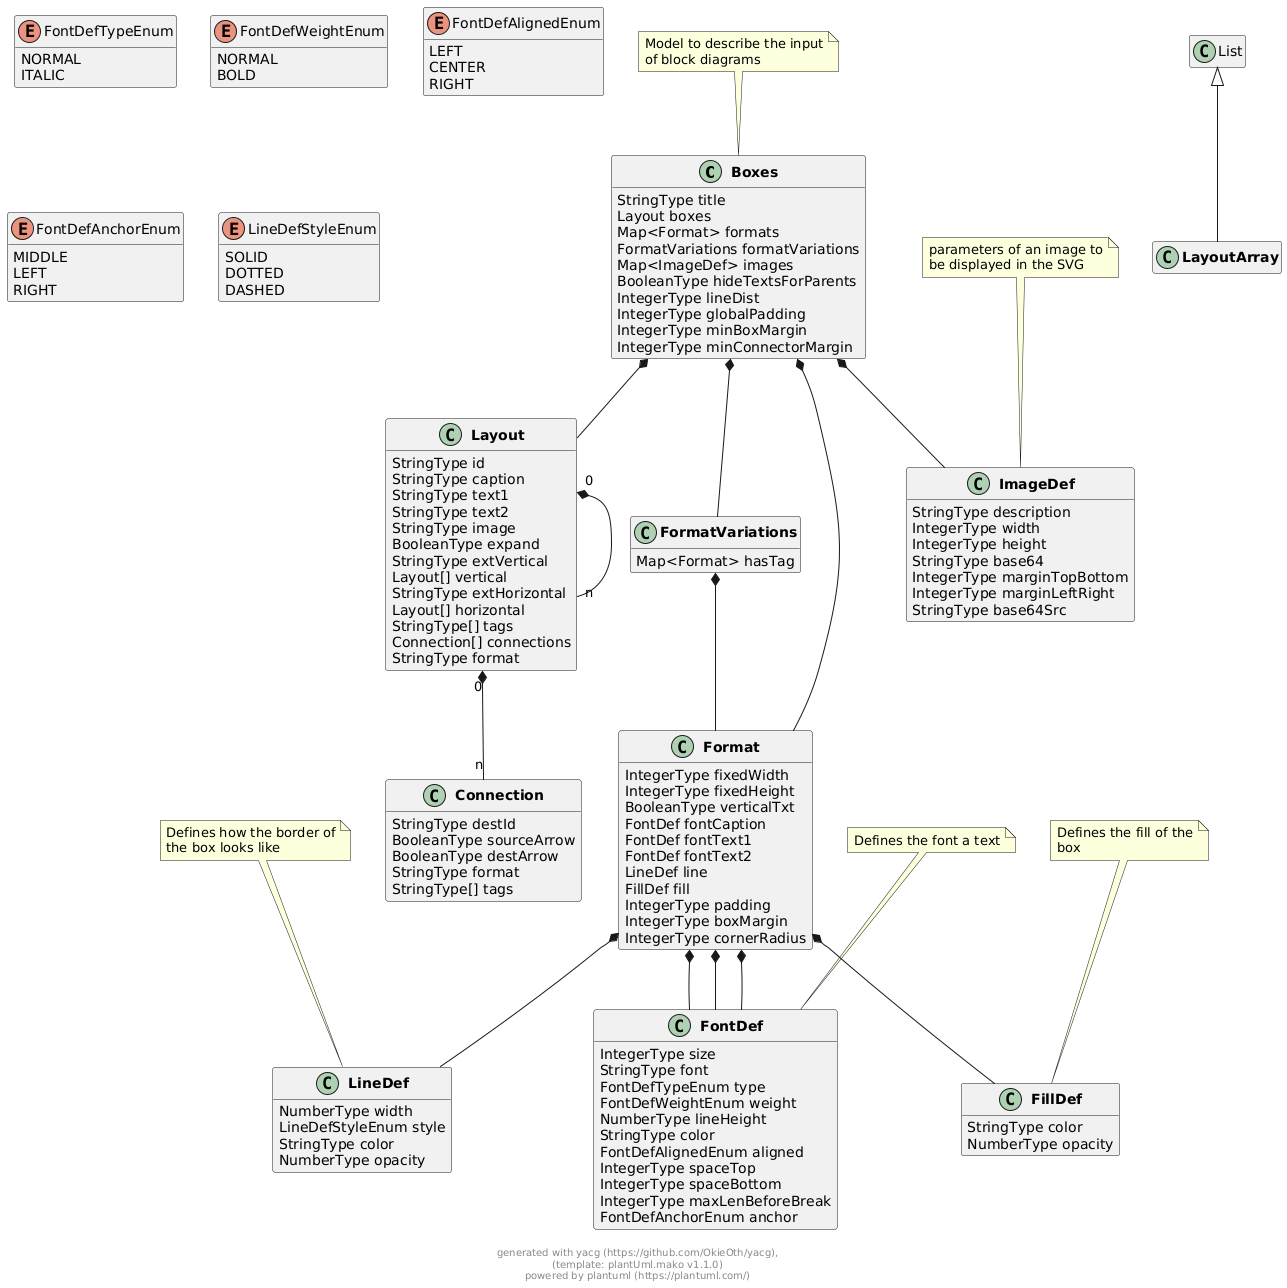
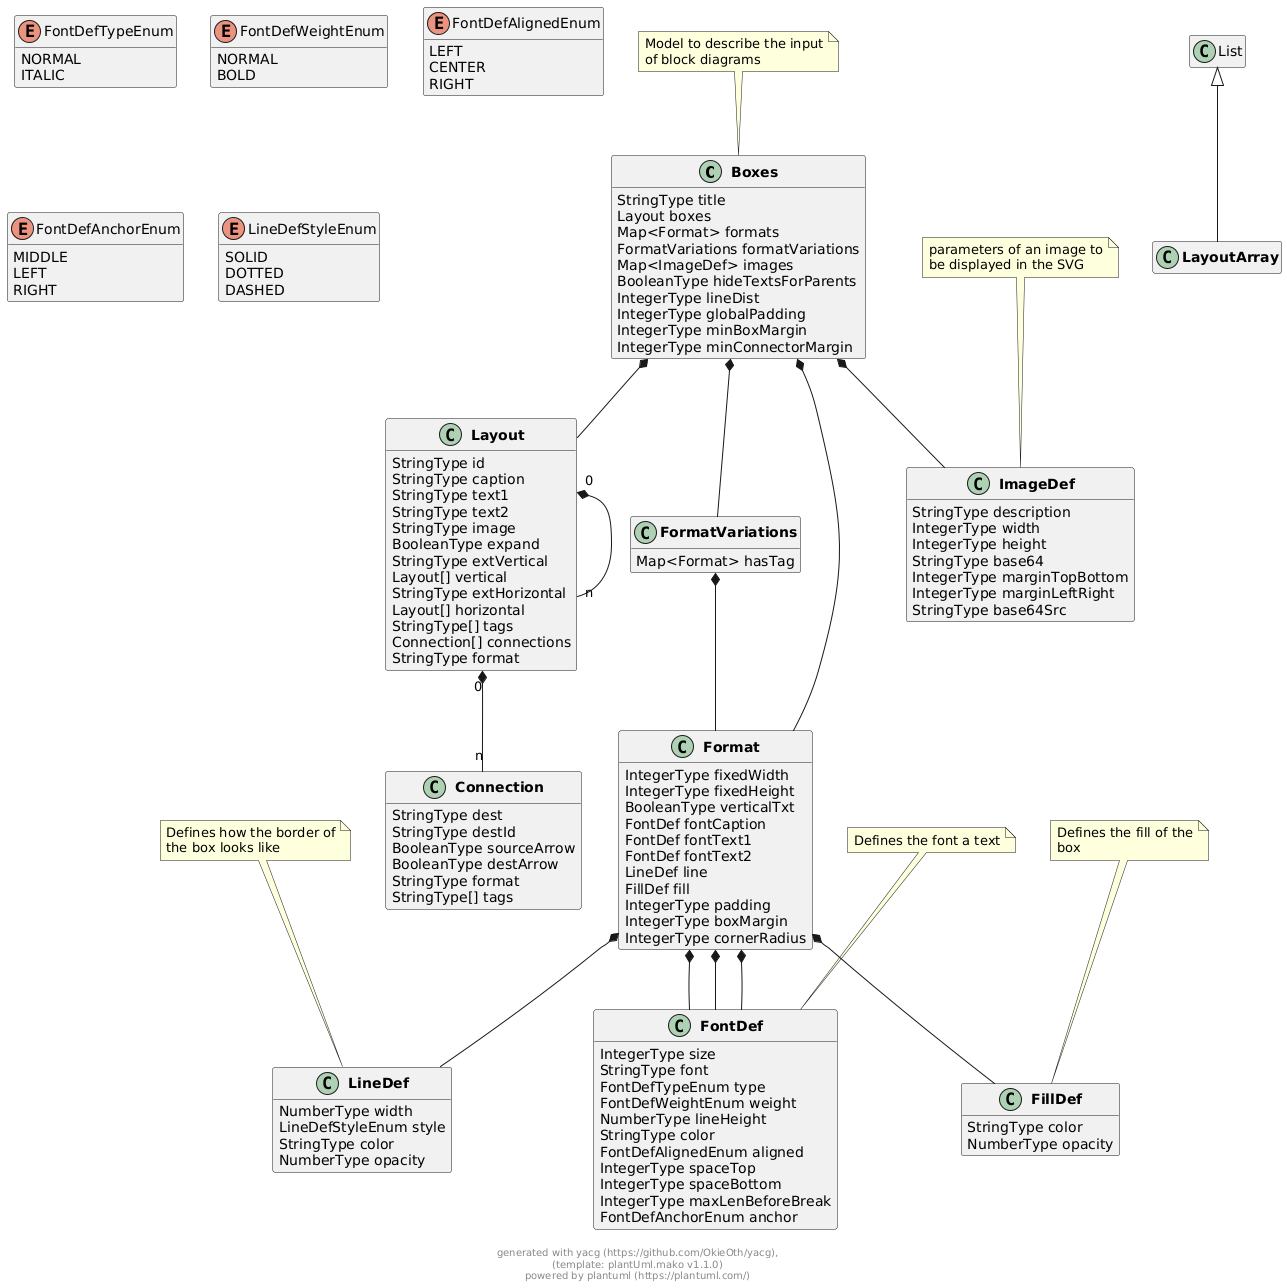
enabled external connections with captions

Changed region(s): [[0.2797, 0.5901, 0.4351, 0.7143]]

diff --git a/pkg/types/boxes/external_helper.go b/pkg/types/boxes/external_helper.go
@@ -7,9 +7,15 @@ import (
 	"github.com/okieoth/draw.chart.things/pkg/types"
 )
 
-func hasConnection(connections []Connection, destId string) bool {
+func hasConnectionById(connections []Connection, destId string) bool {
 	return slices.ContainsFunc(connections, func(c Connection) bool {
 		return c.DestId == destId
+	})
+}
+
+func hasConnectionByCapt(connections []Connection, caption string) bool {
+	return slices.ContainsFunc(connections, func(c Connection) bool {
+		return c.Dest == caption
 	})
 }
 
@@ -23,8 +29,17 @@ func (b *Boxes) mixInConnectionsImpl(l *Layout, additional map[string]Connection
 	if l.Id != "" {
 		if cc, ok := additional[l.Id]; ok {
 			for _, c := range cc.Connections {
-				if !hasConnection(l.Connections, c.DestId) {
+				if !hasConnectionById(l.Connections, c.DestId) {
 					l.Connections = append(l.Connections, c)
+				}
+			}
+		} else if l.Caption != "" {
+			if cc, ok := additional[l.Caption]; ok {
+				for _, c := range cc.Connections {
+					if !hasConnectionByCapt(l.Connections, c.Dest) {
+						c.DestId = b.FindBoxWithCaption(c.Dest)
+						l.Connections = append(l.Connections, c)
+					}
 				}
 			}
 		}
@@ -61,4 +76,32 @@ func (b *Boxes) MixinThings(additional BoxesFileMixings) {
 			maps.Copy(b.FormatVariations.HasTag, additional.FormatVariations.HasTag)
 		}
 	}
+}
+
+func (b *Boxes) findBoxInContWithCaption(cont []Layout, caption string) string {
+	if cont == nil {
+		return ""
+	}
+	for i := range len(cont) {
+		found := b.findBoxWithCaption(&cont[i], caption)
+		if found != "" {
+			return found
+		}
+	}
+	return ""
+}
+
+func (b *Boxes) findBoxWithCaption(box *Layout, caption string) string {
+	if box.Caption == caption {
+		return box.Id
+	}
+	found := b.findBoxInContWithCaption(box.Vertical, caption)
+	if found != "" {
+		return found
+	}
+	return b.findBoxInContWithCaption(box.Horizontal, caption)
+}
+
+func (b *Boxes) FindBoxWithCaption(caption string) string {
+	return b.findBoxWithCaption(&b.Boxes, caption)
 }

diff --git a/pkg/types/boxes/externals_test.go b/pkg/types/boxes/externals_test.go
@@ -71,3 +71,28 @@ func TestLoadExternalConnections(t *testing.T) {
 	require.Equal(t, 2.0, *cl.Line.Width)
 	require.Equal(t, "pink", *cl.Line.Color)
 }
+
+func TestLoadExternalConnections2(t *testing.T) {
+	input := "../../../resources/examples_boxes/ext_complex_horizontal_connected_pics.yaml"
+	inputConnections := "../../../resources/examples_boxes/ext_connections2.yaml"
+
+	b, err := types.LoadInputFromFile[boxes.Boxes](input)
+	require.Nil(t, err)
+	require.NotNil(t, b)
+
+	c, err := types.LoadInputFromFile[boxes.BoxesFileMixings](inputConnections)
+	require.Nil(t, err)
+	require.NotNil(t, c)
+
+	// r4_1
+	require.Len(t, b.Boxes.Horizontal[0].Vertical[0].Connections, 2)
+	// r5_2
+	require.Len(t, b.Boxes.Horizontal[1].Vertical[1].Connections, 0)
+
+	b.MixinThings(*c)
+
+	// r4_1
+	require.Len(t, b.Boxes.Horizontal[0].Vertical[0].Connections, 4)
+	// r5_2
+	require.Len(t, b.Boxes.Horizontal[1].Vertical[1].Connections, 1)
+}

diff --git a/pkg/types/boxes/boxes.go b/pkg/types/boxes/boxes.go
@@ -264,6 +264,9 @@ func CopyFormatVariations(src *FormatVariations) *FormatVariations {
 
 type Connection struct {
 
+    // Caption text of the destination box, can be used as alternative to 'destId'
+    Dest string  `yaml:"dest"`
+
     // box id of the destination
     DestId string  `yaml:"destId"`
 
@@ -291,6 +294,7 @@ func CopyConnection(src *Connection) *Connection {
         return nil
     }
     var ret Connection
+    ret.Dest = src.Dest
     ret.DestId = src.DestId
     ret.SourceArrow = src.SourceArrow
     ret.DestArrow = src.DestArrow
